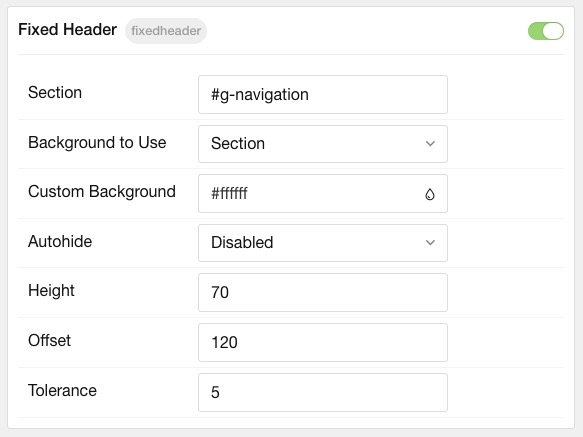
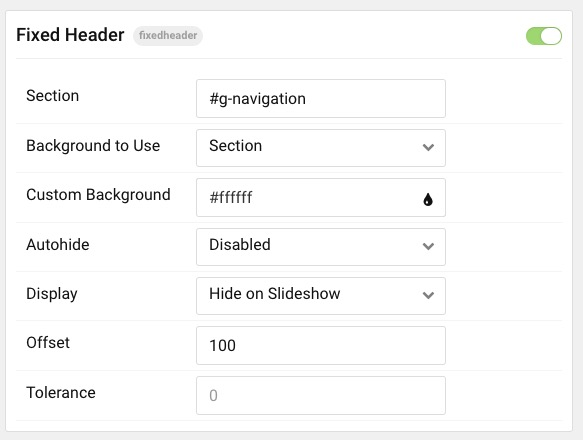
fixed header update

diff --git a/Docs/grav/themes/chimera/atom_fixedheader.md b/Docs/grav/themes/chimera/atom_fixedheader.md
@@ -27,6 +27,6 @@ Next, you can access the atom's settings by selecting the cogwheel icon.
 | Background to Use | Choose between the section's color and a custom color to use when the header is unpinned. |
 | Custom Background | Choose a custom background color for the fixed header once unpinned.                      |
 | Autohide          | Choose if the fixed header autohides on scroll or stays visible.                          |
-| Height         	| Height of Section from top of browser                         							|
+| Display        	| Enabled Mobile, Disable Mobile, or Hide on Slideshow                        				|
 | Offset            | Vertical offset in pixels before the element is unpinned.                                 |
 | Tolerance         | Scroll tolerance in pixels before the state changes.                                      |

diff --git a/Docs/joomla/templates/chimera/atom_fixedheader.md b/Docs/joomla/templates/chimera/atom_fixedheader.md
@@ -27,6 +27,6 @@ Next, you can access the atom's settings by selecting the cogwheel icon.
 | Background to Use | Choose between the section's color and a custom color to use when the header is unpinned. |
 | Custom Background | Choose a custom background color for the fixed header once unpinned.                      |
 | Autohide          | Choose if the fixed header autohides on scroll or stays visible.                          |
-| Height         	| Height of Section from top of browser                         							|
+| Display        	| Enabled Mobile, Disable Mobile, or Hide on Slideshow                        				|
 | Offset            | Vertical offset in pixels before the element is unpinned.                                 |
 | Tolerance         | Scroll tolerance in pixels before the state changes.                                      |
